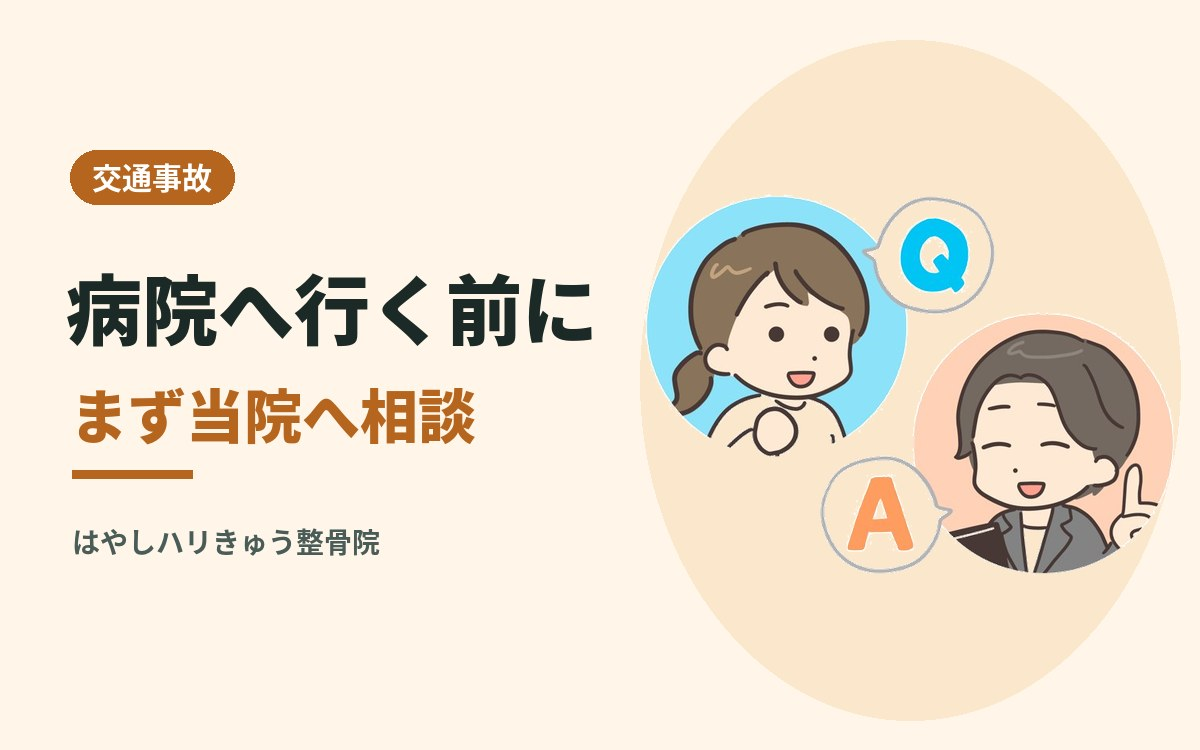
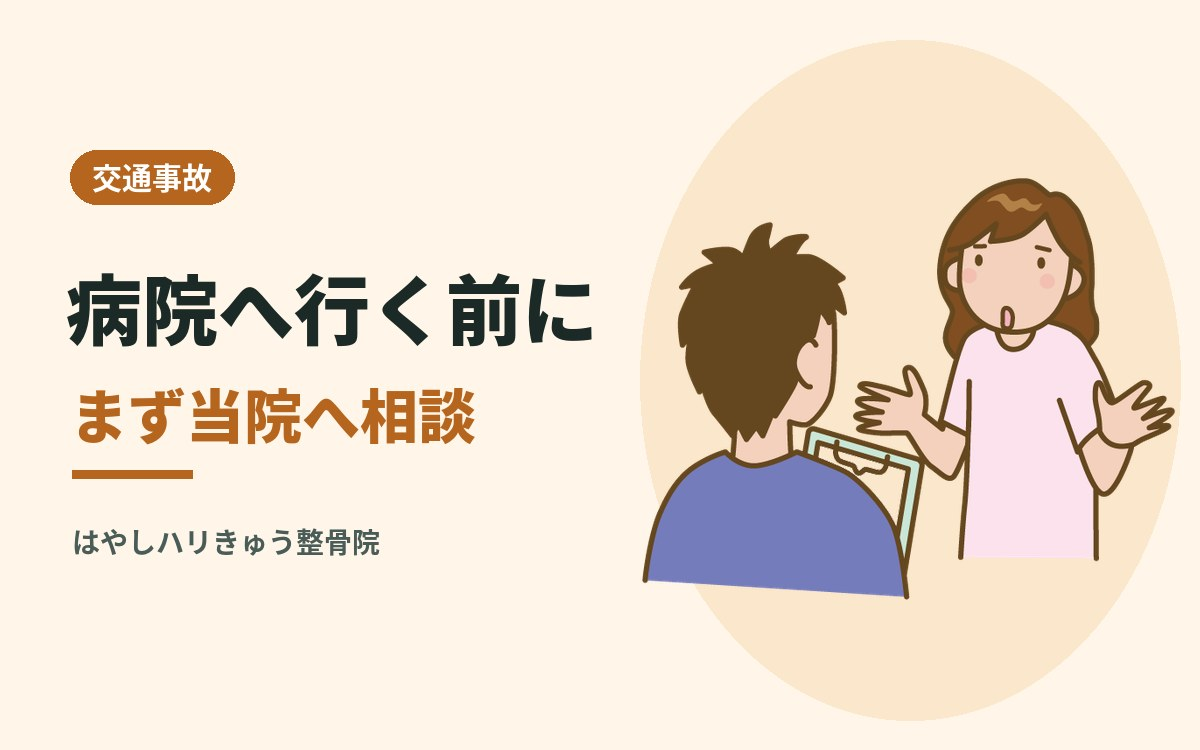
12/16の記事（病院へ行く前に相談）の画像を差し替え
Claude-Session: https://claude.ai/code/session_01PM2mruK46r1eDWs7voThra

Changed region(s): [[0.5242, 0.2147, 0.9867, 0.7973]]

diff --git a/src/pages/Blog.html b/src/pages/Blog.html
@@ -88,7 +88,7 @@ summary::marker{color:#17594F}
 <img src="./img/blog_nenmatsu.jpg" alt="家族で車に乗って出かけるイラスト" style="width: 100%; aspect-ratio: 16 / 10; object-fit: cover; display: block; background: #F2F6F4">
 <span style="padding: 18px 20px 22px; display: flex; flex-direction: column; gap: 8px"><span style="display: flex; flex-wrap: wrap; gap: 8px; align-items: center"><span style="display: inline-flex; align-items: center; min-height: 28px; padding: 0 12px; border-radius: 999px; background: #E3F0EB; color: #17594F; font-size: 13px; font-weight: 700">院からのお知らせ</span><time datetime="2026-12-23" style="font-size: 13px; color: #4A5C58">2026年12月23日</time></span>
 <b style="font-size: 19px; line-height: 1.5">年末年始の診療と休みの間のカラダのケア</b><span style="font-size: 15px; color: #3A4B47">年末年始の診療日のお知らせと、お休みの間にカラダの調子をくずさないためのケアのコツをまとめました。</span></span></a><a href="BlogPost12.html" style="text-decoration: none; color: #1B2A27; background: #FFFFFF; border: 1px solid #C9D8D4; border-radius: 18px; overflow: hidden; display: flex; flex-direction: column">
-<img src="./img/blog_jiko_soudan.jpg" alt="質問する女性と答える男性のイラスト" style="width: 100%; aspect-ratio: 16 / 10; object-fit: cover; display: block; background: #F2F6F4">
+<img src="./img/blog_jiko_soudan.jpg" alt="受付で話を聞くスタッフと、事故のことを相談する女性のイラスト" style="width: 100%; aspect-ratio: 16 / 10; object-fit: cover; display: block; background: #F2F6F4">
 <span style="padding: 18px 20px 22px; display: flex; flex-direction: column; gap: 8px"><span style="display: flex; flex-wrap: wrap; gap: 8px; align-items: center"><span style="display: inline-flex; align-items: center; min-height: 28px; padding: 0 12px; border-radius: 999px; background: #E3F0EB; color: #17594F; font-size: 13px; font-weight: 700">交通事故</span><time datetime="2026-12-16" style="font-size: 13px; color: #4A5C58">2026年12月16日</time></span>
 <b style="font-size: 19px; line-height: 1.5">事故のあと病院へ行く前に整骨院へ相談してほしい理由</b><span style="font-size: 15px; color: #3A4B47">交通事故のあと、まず病院へ行く前に当院へご連絡いただきたい理由があります。提携の整形外科のご紹介と、通い方の相談についてまとめました。</span></span></a><a href="BlogPost8.html" style="text-decoration: none; color: #1B2A27; background: #FFFFFF; border: 1px solid #C9D8D4; border-radius: 18px; overflow: hidden; display: flex; flex-direction: column">
 <img src="./img/ac_youtsu.jpg" alt="腰を押さえる女性のイラスト" style="width: 100%; aspect-ratio: 16 / 10; object-fit: contain; display: block; background: #F2F6F4; padding: 12px; box-sizing: border-box">

diff --git a/src/pages/BlogPost12.html b/src/pages/BlogPost12.html
@@ -36,7 +36,7 @@ summary::marker{color:#17594F}
 <div style="max-width: 760px; margin: 0 auto; padding: 36px 24px 64px; display: flex; flex-direction: column; gap: 18px">
 <div style="display: flex; flex-wrap: wrap; gap: 10px; align-items: center"><span style="display: inline-flex; align-items: center; min-height: 28px; padding: 0 12px; border-radius: 999px; background: #E3F0EB; color: #17594F; font-size: 13px; font-weight: 700">交通事故</span><time datetime="2026-12-16" style="font-size: 14px; color: #4A5C58">2026年12月16日</time></div>
 <h1 id="hero-h" style="margin: 0; font-size: 32px; line-height: 1.5; font-weight: 900">事故のあと病院へ行く前に整骨院へ相談してほしい理由</h1>
-<img src="./img/ac_qa.jpg" alt="質問する女性と答える男性のイラスト" style="width: 100%; max-width: 520px; margin: 8px auto; height: auto; display: block; border-radius: 18px">
+<img src="./img/ac_soudan.png" alt="受付で話を聞くスタッフと、事故のことを相談する女性のイラスト" style="width: 100%; max-width: 520px; margin: 8px auto; height: auto; display: block; border-radius: 18px">
 <p style="margin: 0; color: #2E3F3B; font-size: 17px; line-height: 2">交通事故のあと、「まずは近くの病院へ」と考える方が多いと思います。もちろん、医師の診察はとても大切です。そのうえで当院では、「病院へ行く前に、一度ご連絡ください」とお伝えしています。</p>
 <p style="margin: 0; color: #2E3F3B; font-size: 17px; line-height: 2">先にご相談いただくと、そのあとの通い方がぐっと楽になるからです。</p>
 <h2 style="margin: 24px 0 0; font-size: 24px; line-height: 1.5; font-weight: 900; padding-left: 14px; border-left: 5px solid #17594F">病院によって考え方がちがいます</h2>
